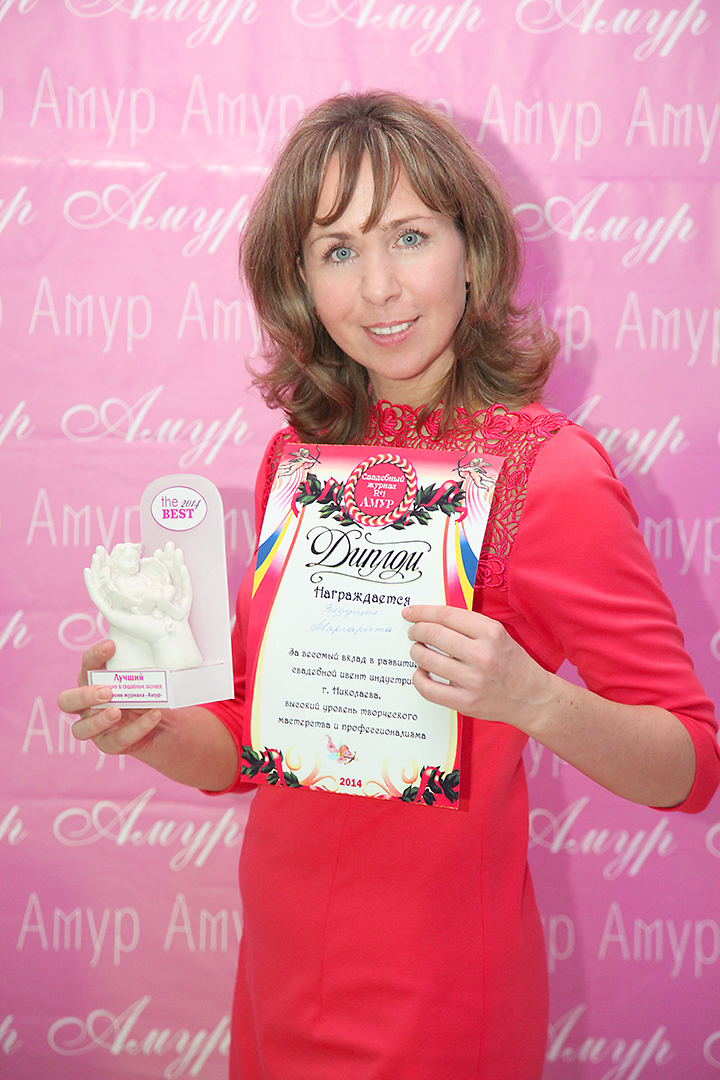
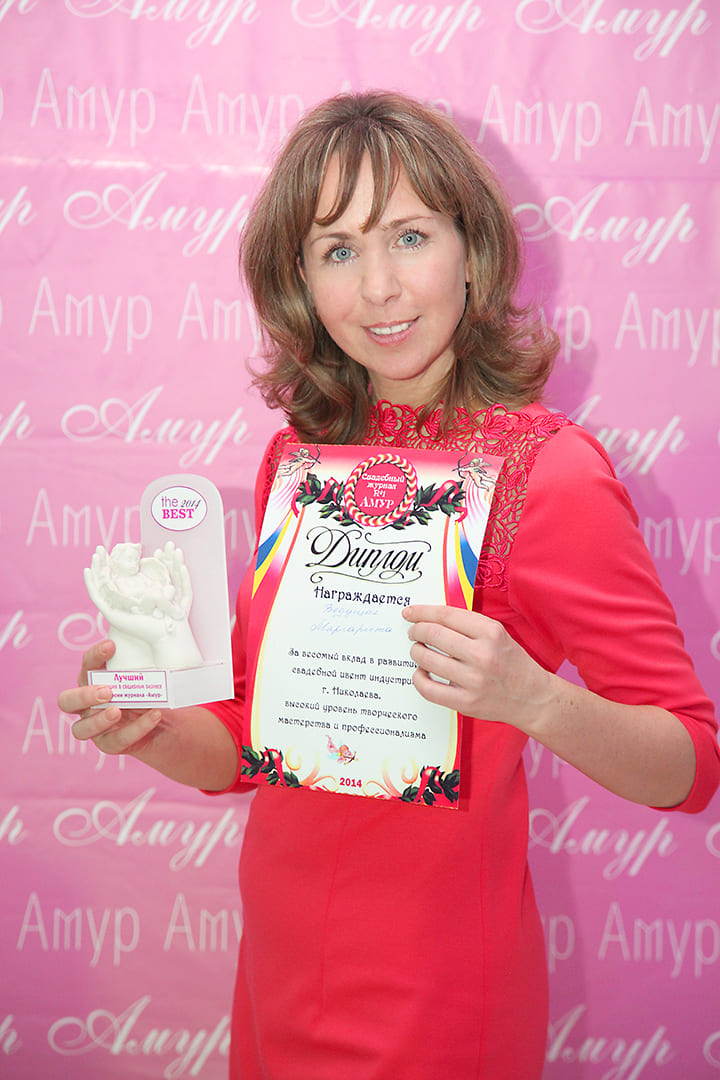
added compression photo img_md img

Changed region(s): [[0.4583, 0.4278, 0.6111, 0.5194], [0.7028, 0.3972, 0.7333, 0.4583], [0.6417, 0.4278, 0.6722, 0.4583]]

diff --git a/src/components/MyFolio/MyFolio.js b/src/components/MyFolio/MyFolio.js
@@ -4,13 +4,9 @@ import {MainButton} from "../Button";
 import styles from './MyFolio.module.scss'
 import {PORTFOLIO_ROUTE} from "../../utils/consts";
 import classNames from "classnames";
-import img1 from '../../assets/folio/myFolio1.jpg'
-import img2 from '../../assets/folio/myFolio2.jpg'
-import img3 from '../../assets/folio/myFolio3.jpg'
-import img4 from '../../assets/folio/myFolio4.jpg'
-import img5 from '../../assets/folio/myFolio5.jpg'
-import img6 from '../../assets/folio/myFolio6.jpg'
 import {Modal} from "../";
+import {img1_md, img2_md, img3_md, img4_md, img5_md, img6_md} from "../../assets/folio/MD";
+import {img1, img2, img3, img4, img5, img6} from "../../assets/folio/XXl";
 
 
 export const images = [img1, img2, img3, img4, img5, img6]
@@ -33,23 +29,23 @@ const MyFolio = ({screenWidth}) => {
                 <Container className='bg-dark text-light pb-2 p-md-5'>
                     <Row>
                         <Col xl={5} lg={12} className='mb-4' onClick={() => handleShow(0)}>
-                            <Image src={img1} className={styles.folio_img}/>
+                            <Image src={img1_md} className={styles.folio_img}/>
                         </Col>
                         <Col xl={7} lg={12} className='mb-4' onClick={() => handleShow(1)}>
-                            <Image src={img2} className={styles.folio_img}/>
+                            <Image src={img2_md} className={styles.folio_img}/>
                         </Col>
                         <Col xl={7} lg={12} className='mb-4' onClick={() => handleShow(2)}>
-                            <Image src={img3} className={styles.folio_img}/>
+                            <Image src={img3_md} className={styles.folio_img}/>
                         </Col>
                         {(screenWidth > 600) && <>
                             <Col xl={5} lg={12} className='mb-4' onClick={() => handleShow(3)}>
-                                <Image src={img4} className={styles.folio_img}/>
+                                <Image src={img4_md} className={styles.folio_img}/>
                             </Col>
                             <Col xl={5} lg={12} className='mb-4' onClick={() => handleShow(4)}>
-                                <Image src={img5} className={styles.folio_img}/>
+                                <Image src={img5_md} className={styles.folio_img}/>
                             </Col>
                             <Col xl={7} lg={12} className='mb-4' onClick={() => handleShow(5)}>
-                                <Image src={img6} className={styles.folio_img}/>
+                                <Image src={img6_md} className={styles.folio_img}/>
                             </Col></>}
                     </Row>
                 </Container>

diff --git a/src/page/PortfolioPage.js b/src/page/PortfolioPage.js
@@ -1,13 +1,7 @@
 import React, {useRef, useState, useLayoutEffect, useEffect} from 'react';
 import styles from "./page.module.css"
-import img1 from "../assets/folio/myFolio1.jpg"
-import img2 from "../assets/folio/myFolio2.jpg"
-import img3 from "../assets/folio/myFolio3.jpg"
-import img4 from "../assets/folio/myFolio4.jpg"
-import img5 from "../assets/folio/myFolio5.jpg"
-import img6 from "../assets/folio/myFolio6.jpg"
-
 import {NavBar, PhotoViewMobil, PhotoViewScreen, UpButton} from "../components";
+import {img1, img2, img3, img4, img5, img6} from "../assets/folio/XXl";
 
 const PortfolioPage = ({screenWidth, scrollPosition}) => {
     console.log(scrollPosition)

diff --git a/src/components/ImgMain/ImgMain.module.scss b/src/components/ImgMain/ImgMain.module.scss
@@ -2,7 +2,7 @@
 
 .mainBackground{
   background-repeat: no-repeat;
-  background-image: url('../../assets/images/frontMain.jpg');
+  background-image: url('../../assets/images/frontMainXXlZip.jpg');
   background-attachment: fixed;
   background-size: cover;
   background-color: $main_light;
@@ -14,7 +14,6 @@
 @media(max-width: 600px) {
   .mainBackground{
     background-position: 50% 75%;
-    background-image: url('../../assets/images/frontMain1.jpg');
-    //height: 100vh;
+    background-image: url('../../assets/images/frontMainM.webp');
   }
 }

diff --git a/src/assets/folio/MD/index.js b/src/assets/folio/MD/index.js
@@ -1,0 +1,6 @@
+export {default as img1_md} from "./myFolio1_md.jpg"
+export {default as img2_md} from "./myFolio2_md.jpg"
+export {default as img3_md} from "./myFolio3_md.jpg"
+export {default as img4_md} from "./myFolio4_md.jpg"
+export {default as img5_md} from "./myFolio5_md.jpg"
+export {default as img6_md} from "./myFolio6_md.jpg"

diff --git a/src/assets/folio/XXl/index.js b/src/assets/folio/XXl/index.js
@@ -1,0 +1,6 @@
+export {default as img1} from "./myFolio1.jpg"
+export {default as img2} from "./myFolio2.jpg"
+export {default as img3} from "./myFolio3.jpg"
+export {default as img4} from "./myFolio4.jpg"
+export {default as img5} from "./myFolio5.jpg"
+export {default as img6} from "./myFolio6.jpg"
